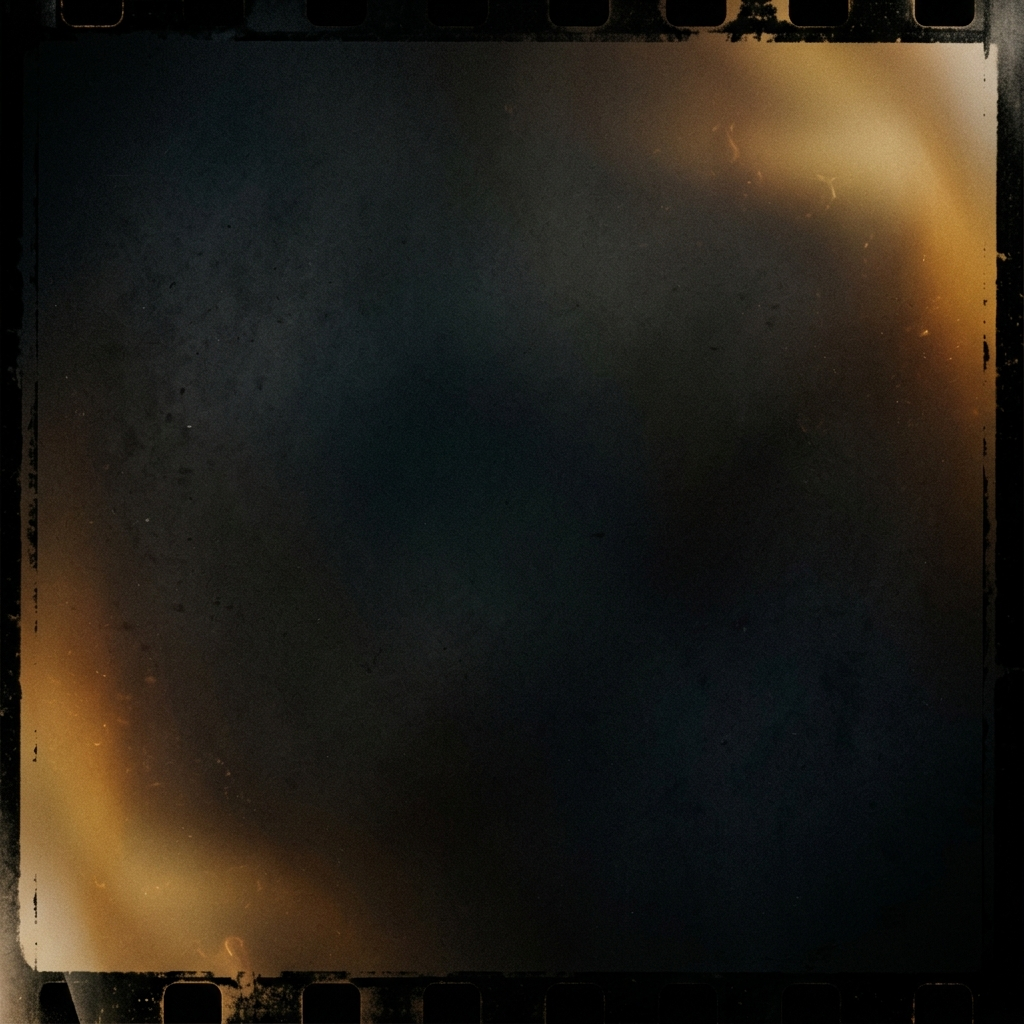
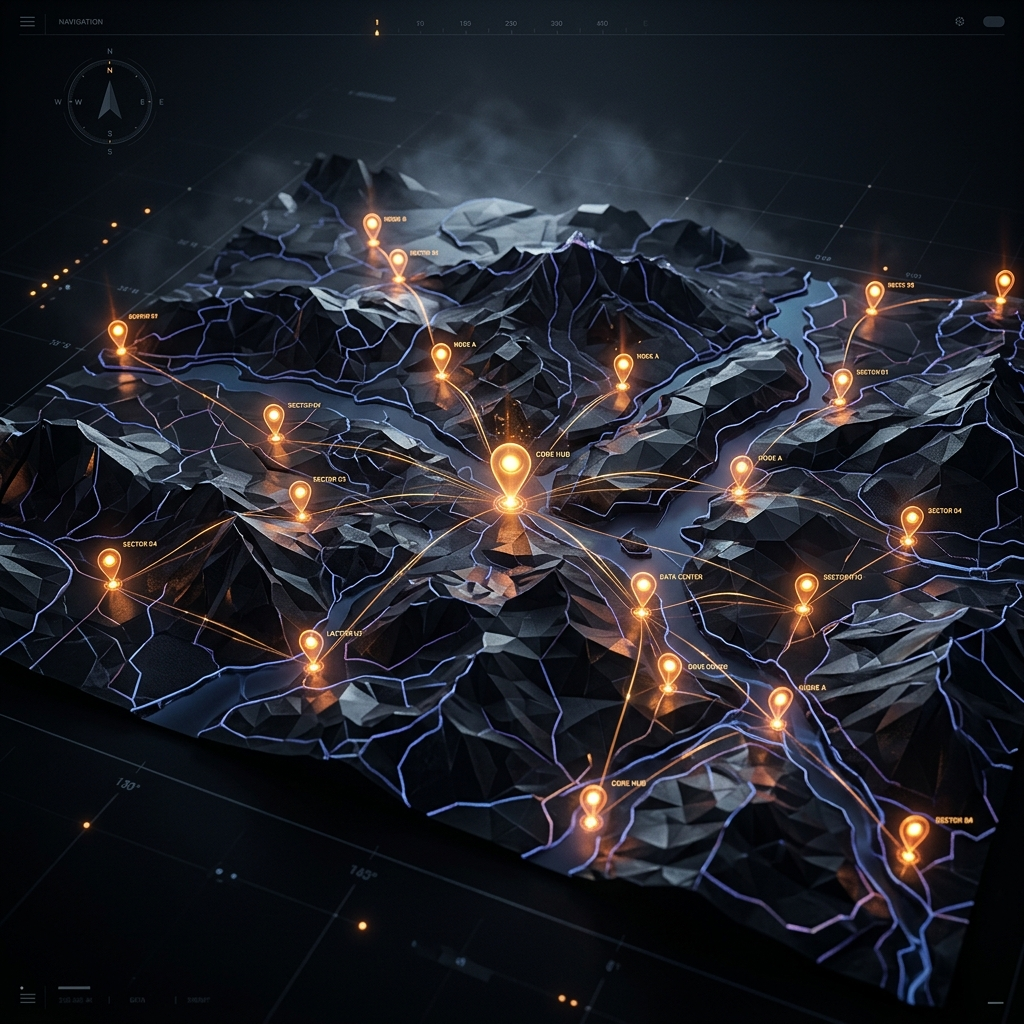
style: update background image for work experience (Salem / Erode) page to a cinematic location map

diff --git a/components/sections/PublicationsFooterSection.jsx b/components/sections/PublicationsFooterSection.jsx
@@ -1,7 +1,7 @@
 
 'use client'
 
-import { useEffect, useRef, Fragment } from 'react'
+import { useEffect, useRef, Fragment, useState } from 'react'
 import Image from 'next/image'
 import * as THREE from 'three'
 import { gsap } from '@/lib/gsap'